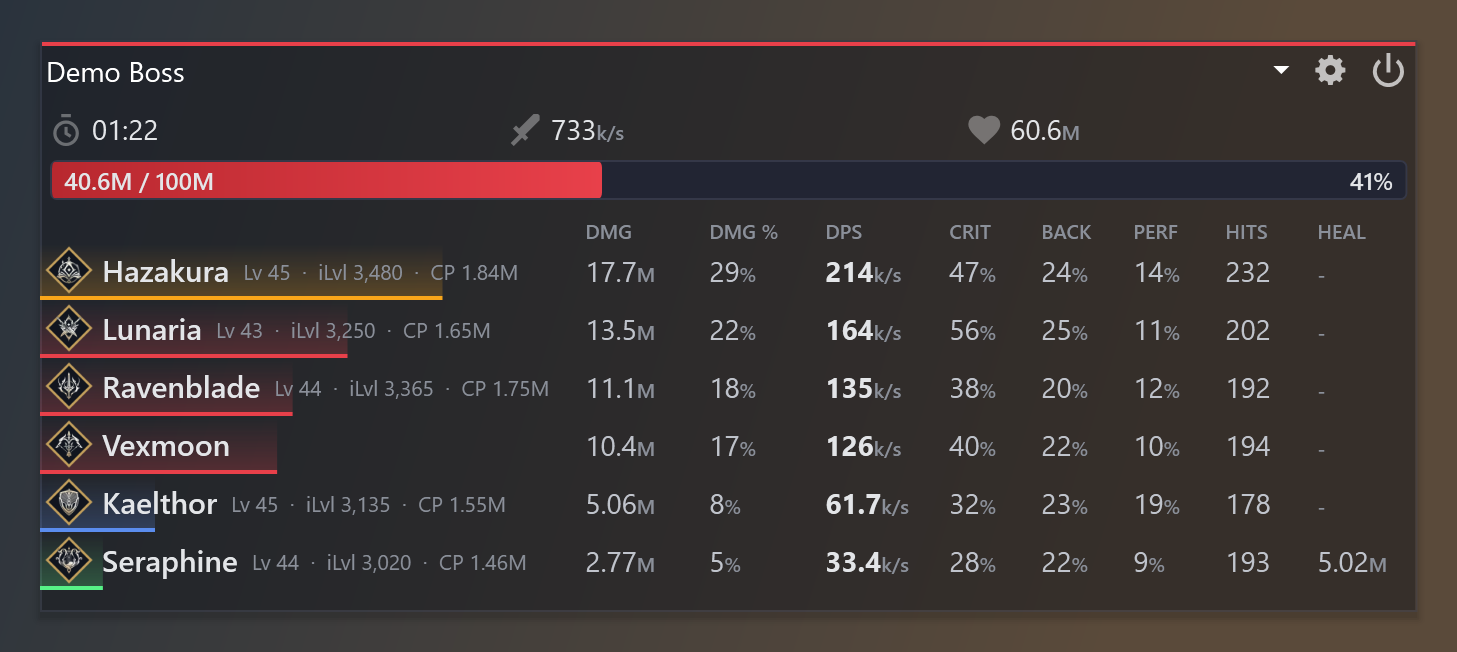
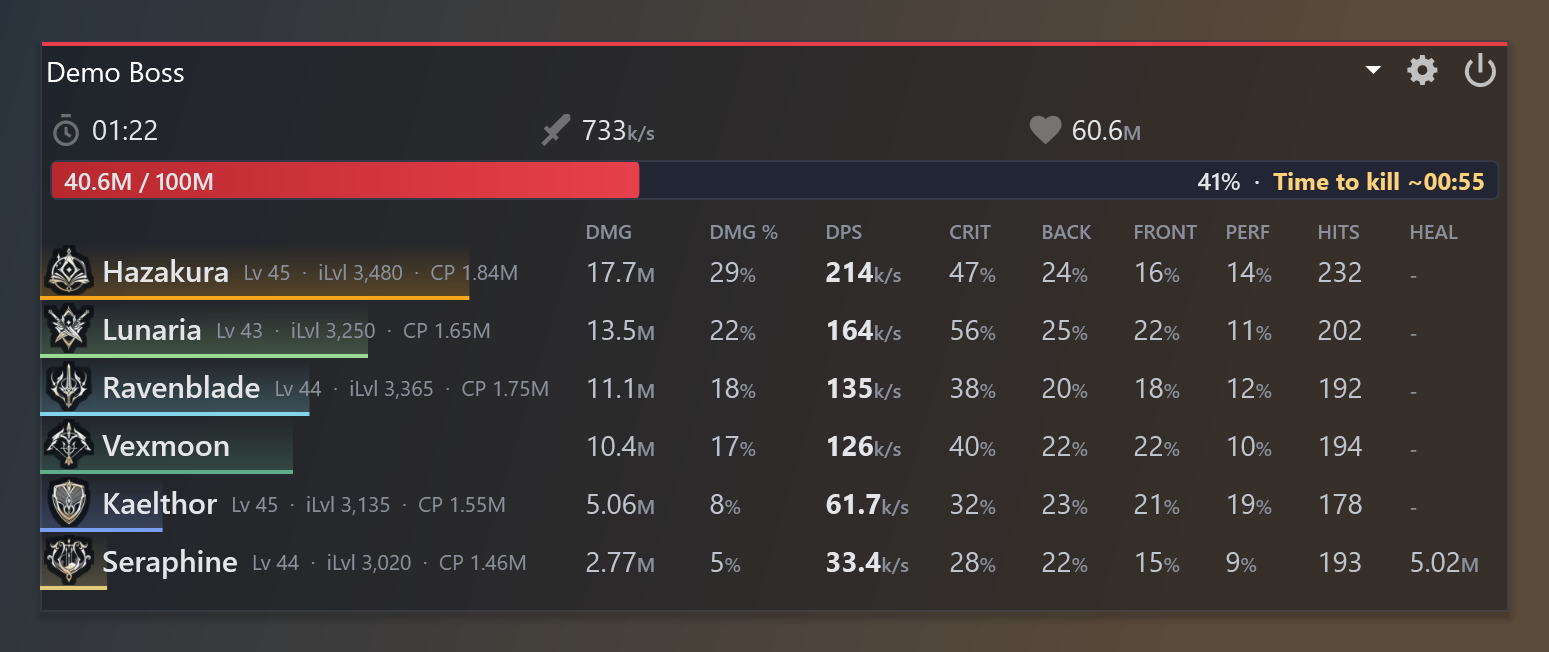
Update page

diff --git a/index.html b/index.html
@@ -177,7 +177,10 @@
           <li>Damage, share, DPS, crit, back attacks, perfect hits, heals</li>
           <li>Pick the columns you want and how many players to show</li>
           <li>Copy a summary to the chat with one click</li>
-          <li>Class icons your way: silver, class colors or the game's own frame<span class="tag-new">New</span></li>
+          <li>Class icons your way: silver, class colors or the game's own frame</li>
+          <li>Filled bars and colors by class, if you like that look<span class="tag-new">New</span></li>
+          <li>Death recap: point at the skull to see the hits before someone died<span class="tag-new">New</span></li>
+          <li>Your DPS against your best on the same boss<span class="tag-new">New</span></li>
         </ul>
       </div>
       <img class="shot" src="img/meter-active-dps.png" alt="Party meter" loading="lazy">
@@ -215,6 +218,7 @@
         <p>Separate little windows you can put anywhere, each with its own size and background.</p>
         <ul>
           <li>Boss frame with HP, break gauge and the time it stays down</li>
+          <li>Time to kill: how long the boss has left at the current pace<span class="tag-new">New</span></li>
           <li>Debuffs on the boss, yours marked in gold</li>
           <li>Your buffs with time left, and your ping</li>
           <li>Over the game only: alt tab and they get out of the way</li>
@@ -234,7 +238,7 @@
         <ul>
           <li>Grouped by dungeon and expedition, kills marked</li>
           <li>Search a player across all your fights</li>
-          <li>Open any old fight and click a player to see their skills</li>
+          <li>Open any old fight and click a player to see their skills, and who died</li>
           <li>Opens at once, even with hundreds of fights</li>
         </ul>
       </div>
